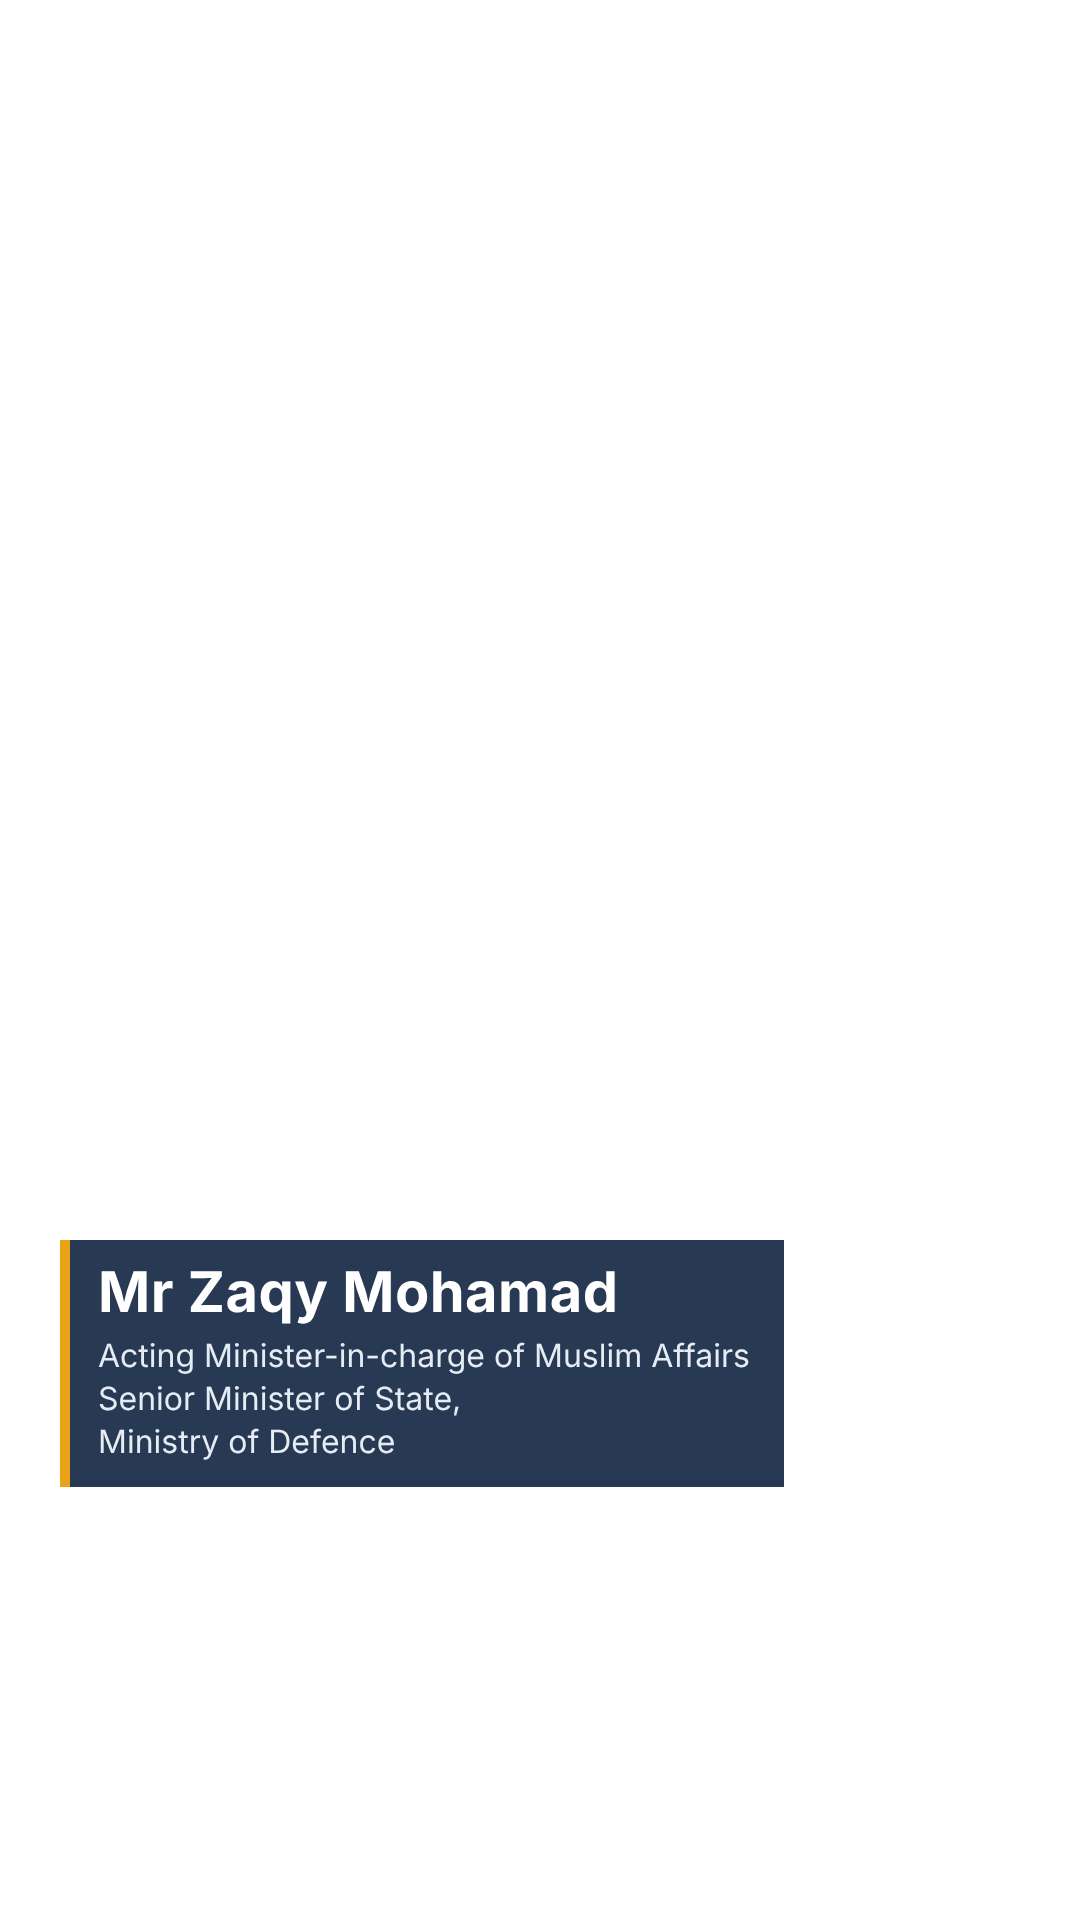
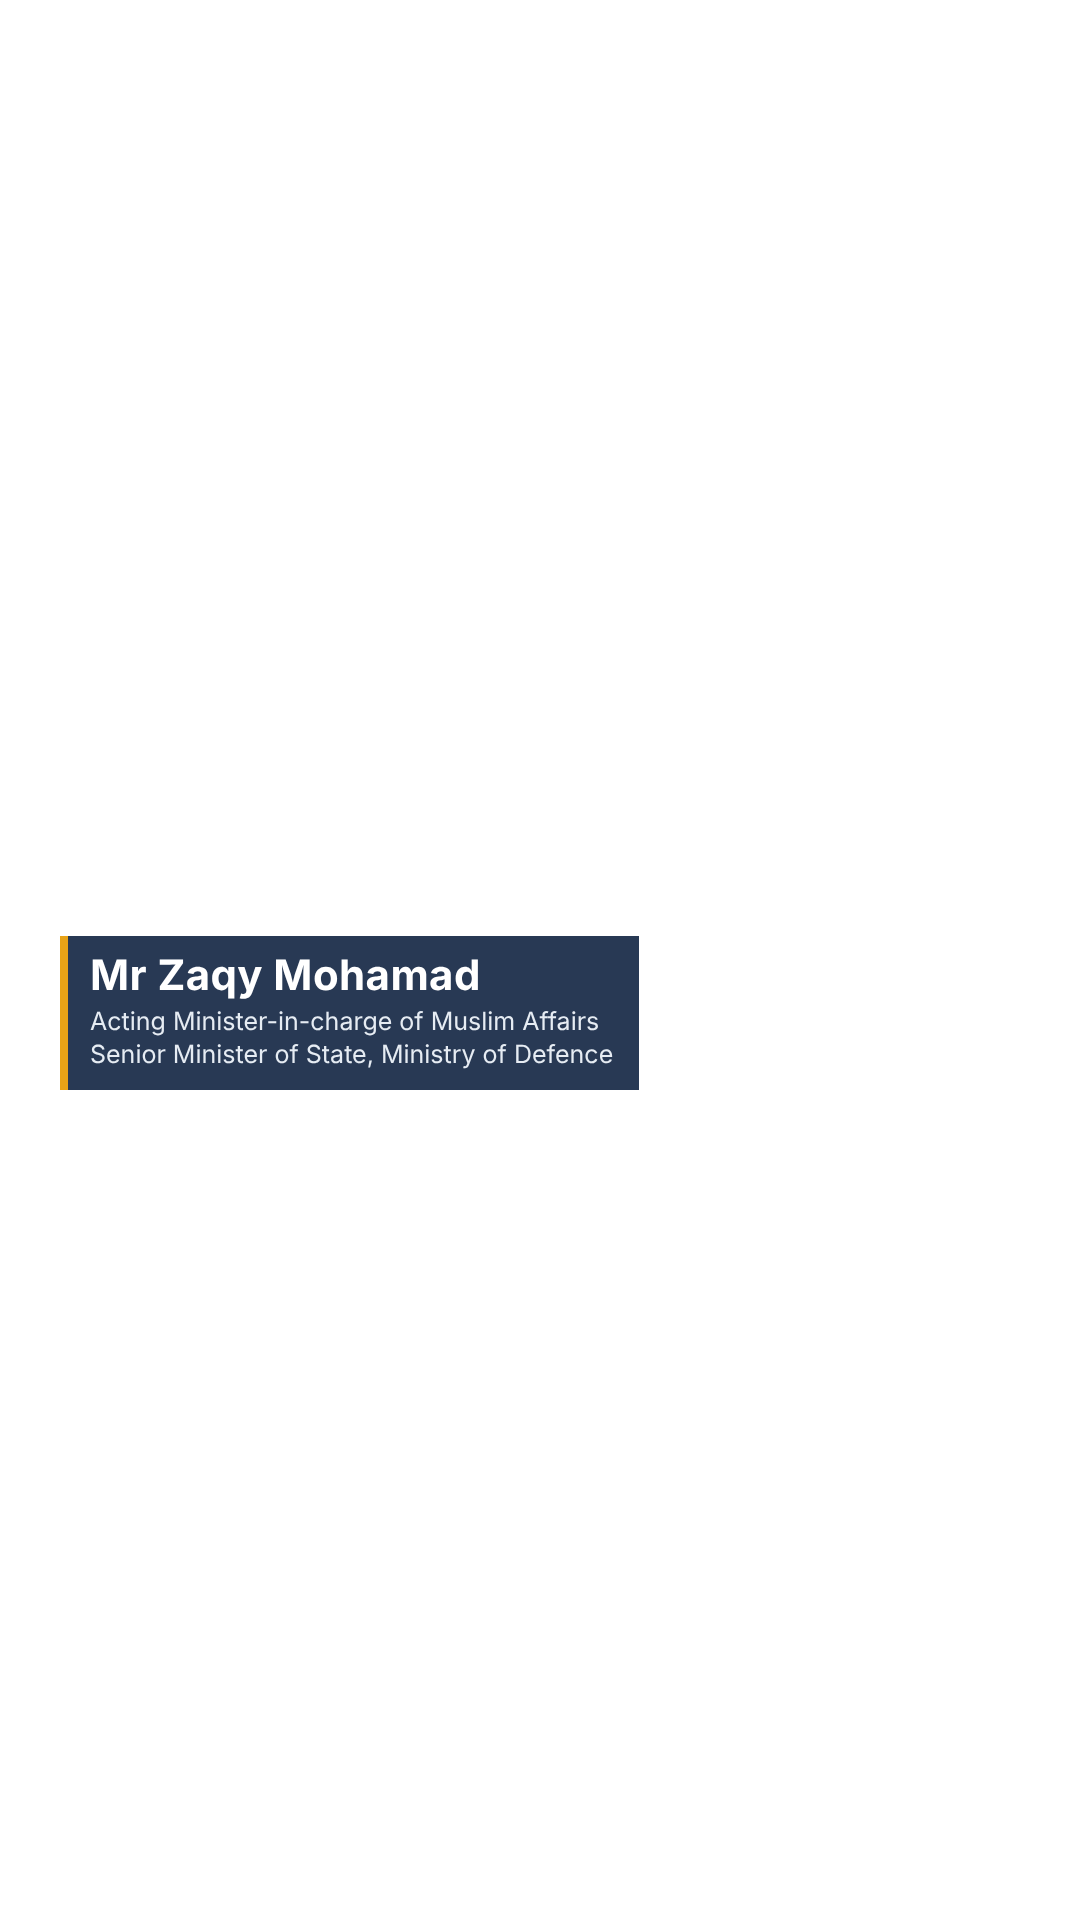
Shrink 9:16 lower third and place it above subtitles
Claude-Session: https://claude.ai/code/session_0122N69PWPchnU56xAmmbSWv

Changed region(s): [[0.0306, 0.625, 0.7333, 0.7812], [0.0306, 0.4688, 0.6111, 0.5938]]

diff --git a/lower_thirds/lt_vertical.html b/lower_thirds/lt_vertical.html
@@ -1,11 +1,11 @@
 <!doctype html><html><head><meta charset="utf-8"><style>
 html,body{margin:0;width:1080px;height:1920px;background:transparent;font-family:"Helvetica Neue",Arial,sans-serif}
-.lt{position:absolute;left:60px;top:1240px;display:flex;max-width:860px}
-.bar{width:10px;background:#E8A317;flex:none}
-.box{background:rgba(10,30,60,.88);padding:22px 34px 24px 28px}
-.name{color:#fff;font-size:56px;font-weight:700;letter-spacing:.5px;line-height:1.1}
-.des{color:#e6ecf3;font-size:32px;line-height:1.35;margin-top:10px}
+.lt{position:absolute;left:60px;bottom:830px;display:flex}
+.bar{width:8px;background:#E8A317;flex:none}
+.box{background:rgba(10,30,60,.88);padding:16px 26px 18px 22px}
+.name{color:#fff;font-size:42px;font-weight:700;letter-spacing:.4px;line-height:1.1}
+.des{color:#e6ecf3;font-size:25px;line-height:1.35;margin-top:6px}
 </style></head><body><div class="lt"><div class="bar"></div><div class="box">
 <div class="name">Mr Zaqy Mohamad</div>
-<div class="des">Acting Minister-in-charge of Muslim Affairs<br>Senior Minister of State,<br>Ministry of Defence</div>
+<div class="des">Acting Minister-in-charge of Muslim Affairs<br>Senior Minister of State, Ministry of Defence</div>
 </div></div></body></html>
